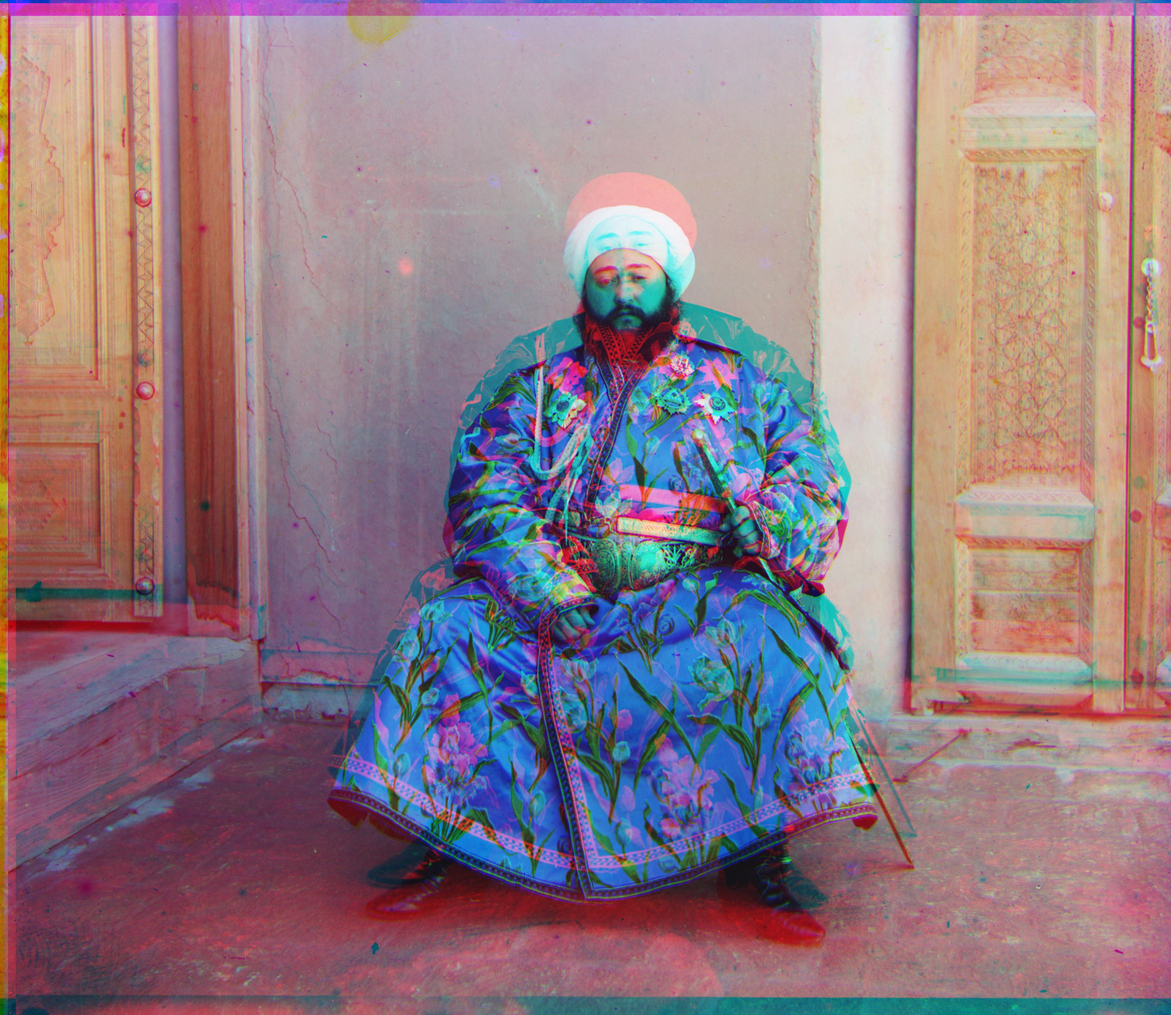
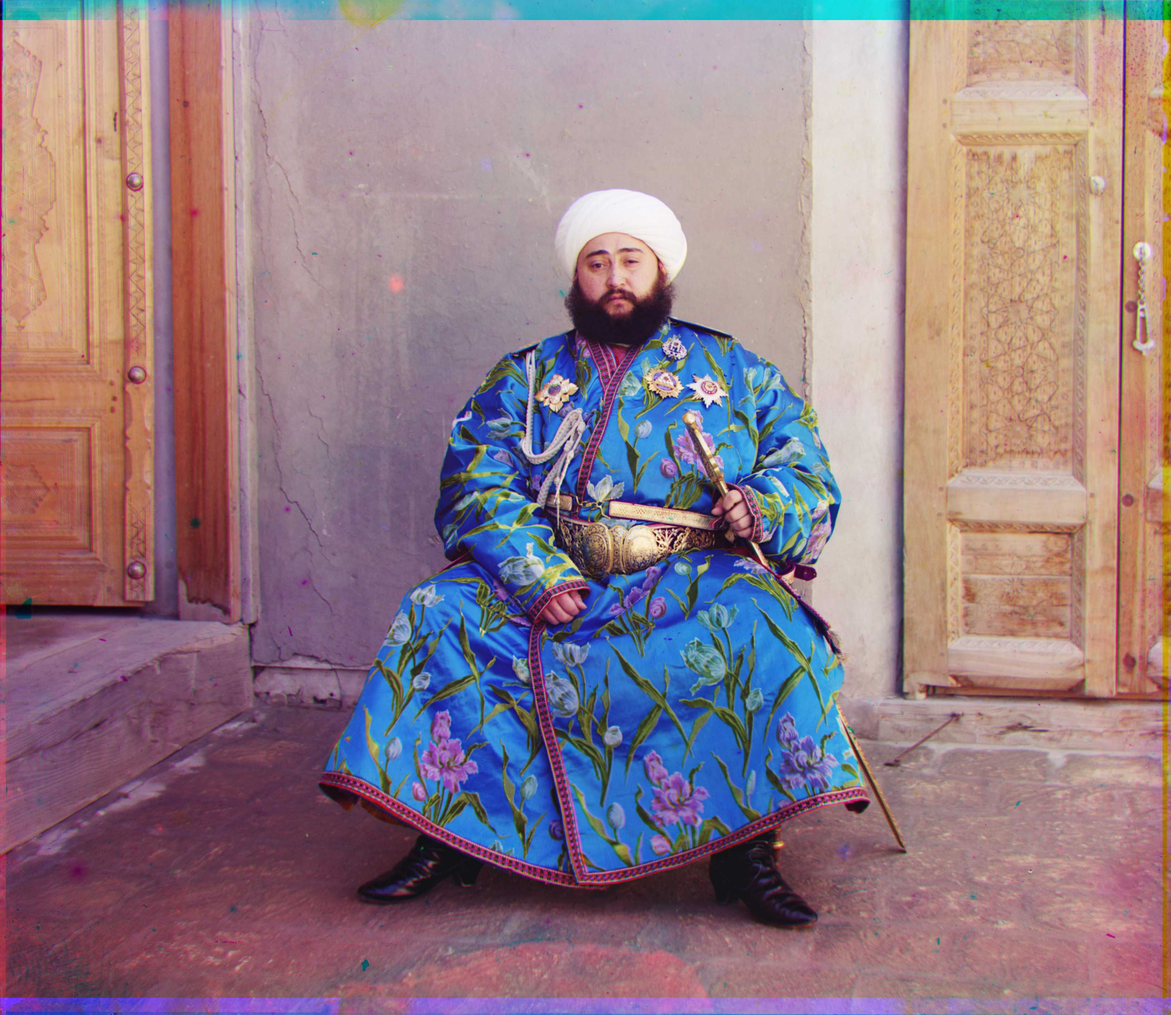
better

diff --git a/1/index.html b/1/index.html
@@ -22,7 +22,7 @@
             padding: 10px;
         }
         .flex-item img {
-            width: 255px;
+            width: 100%;
             height: auto;
             display: block;
             margin-bottom: 10px;
@@ -185,6 +185,7 @@
             <div class="caption">Green (23, 45)</div>
             <div class="caption">Red (45, 9)</div>
         </div>
+        <div class="flex-item"></div>
      </div>
 
     This strategy is employed for all tif images, and does a decent job at aligning all of them 
